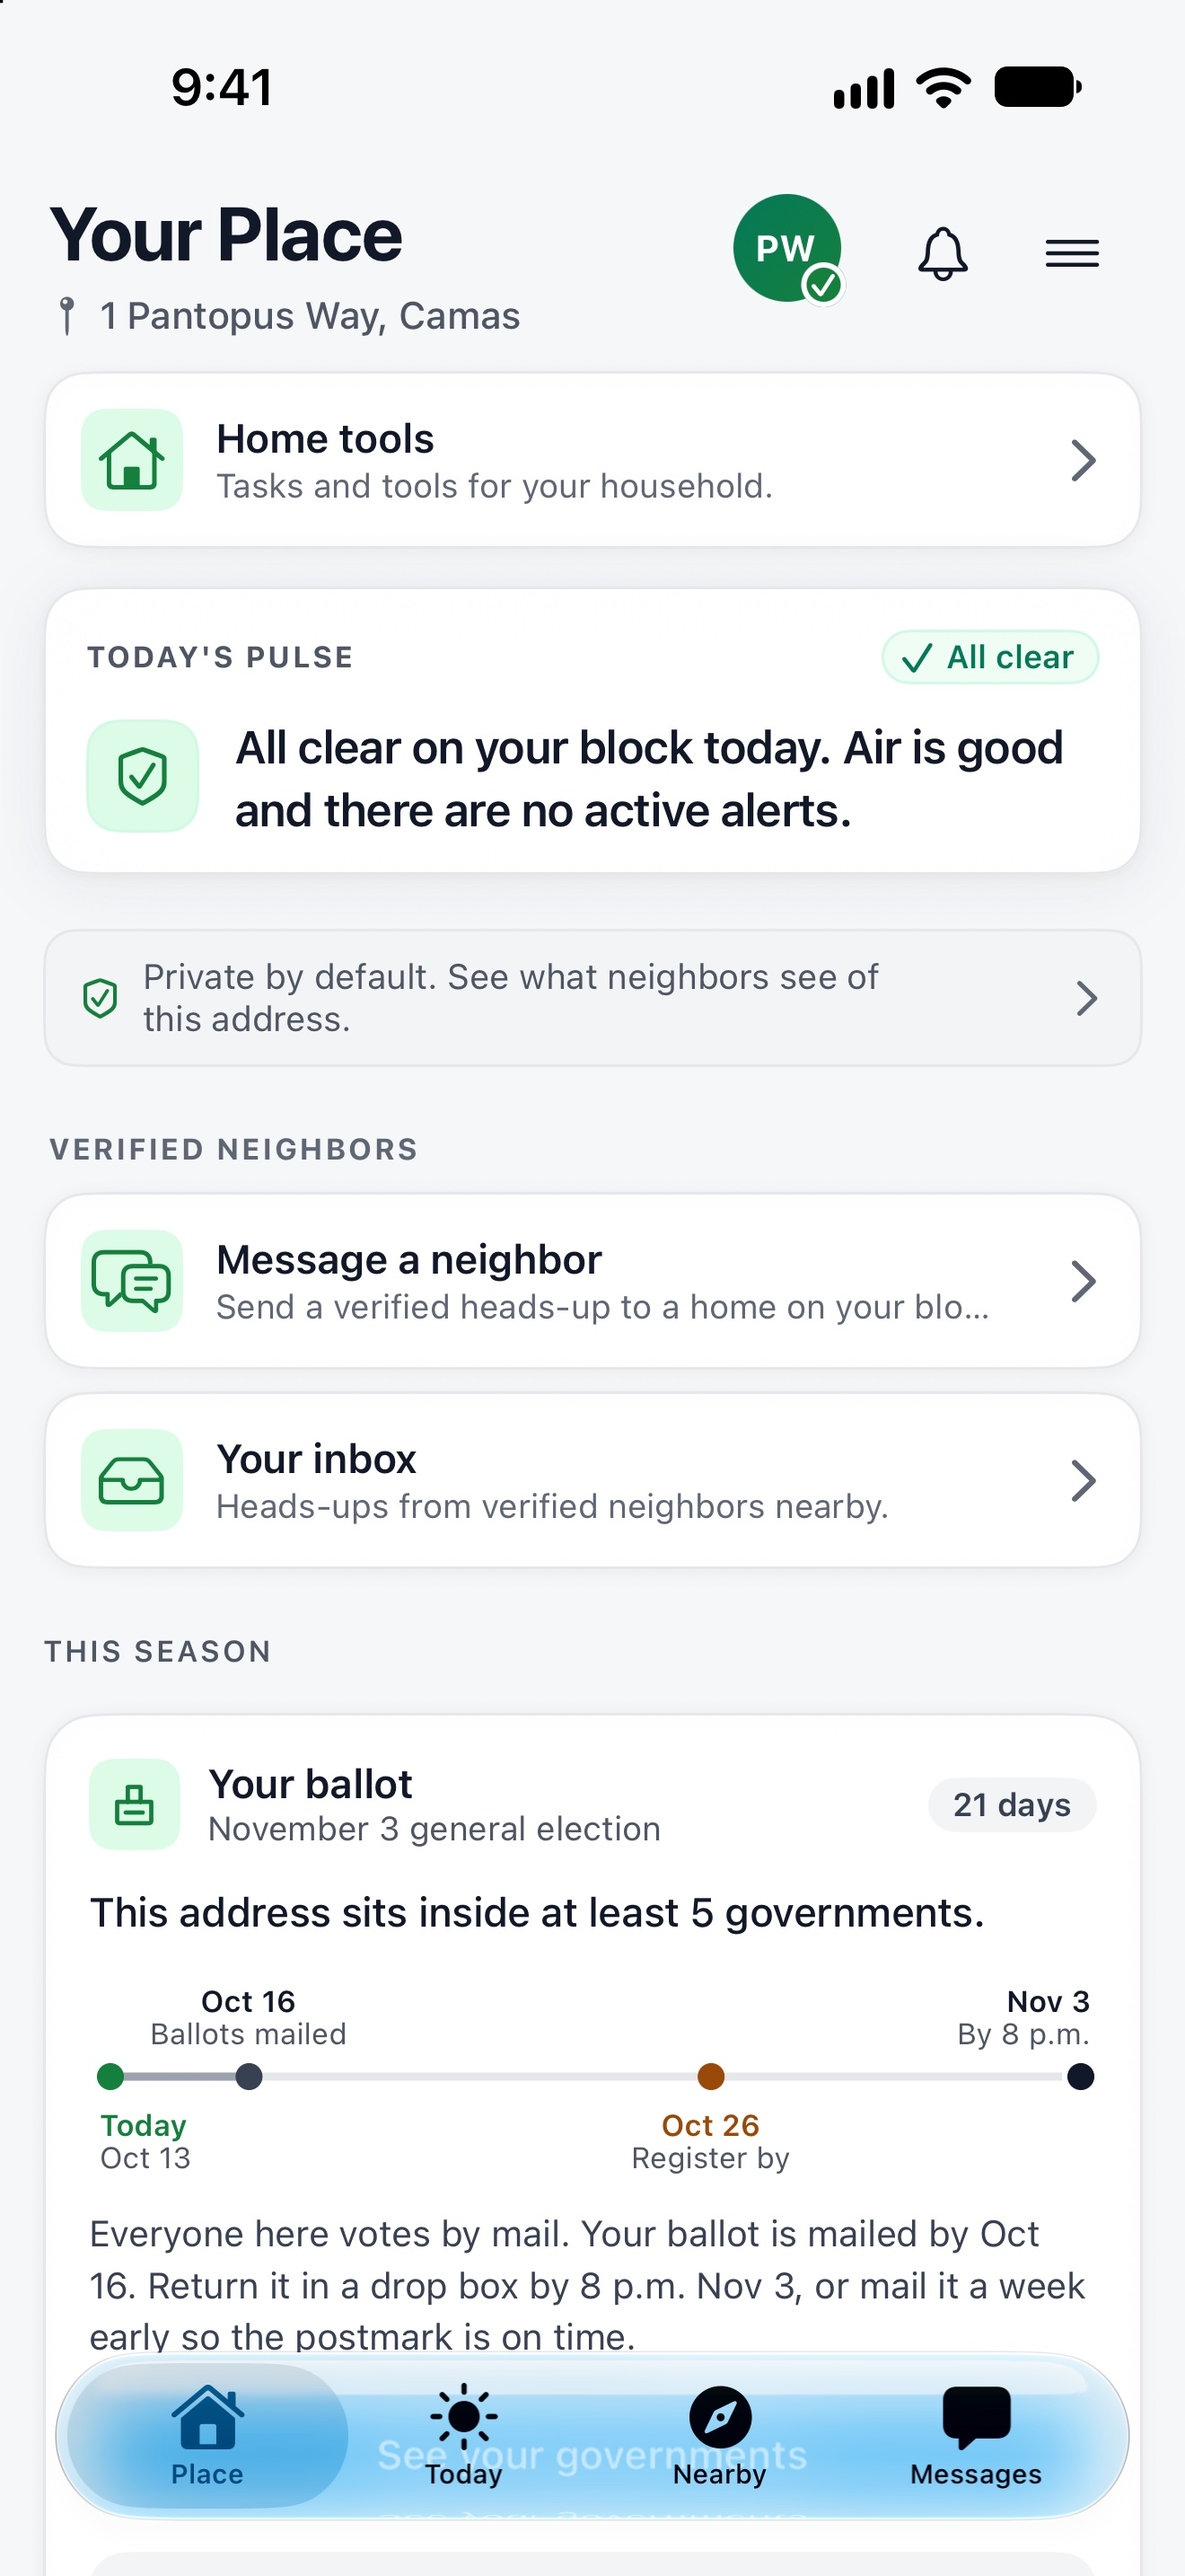
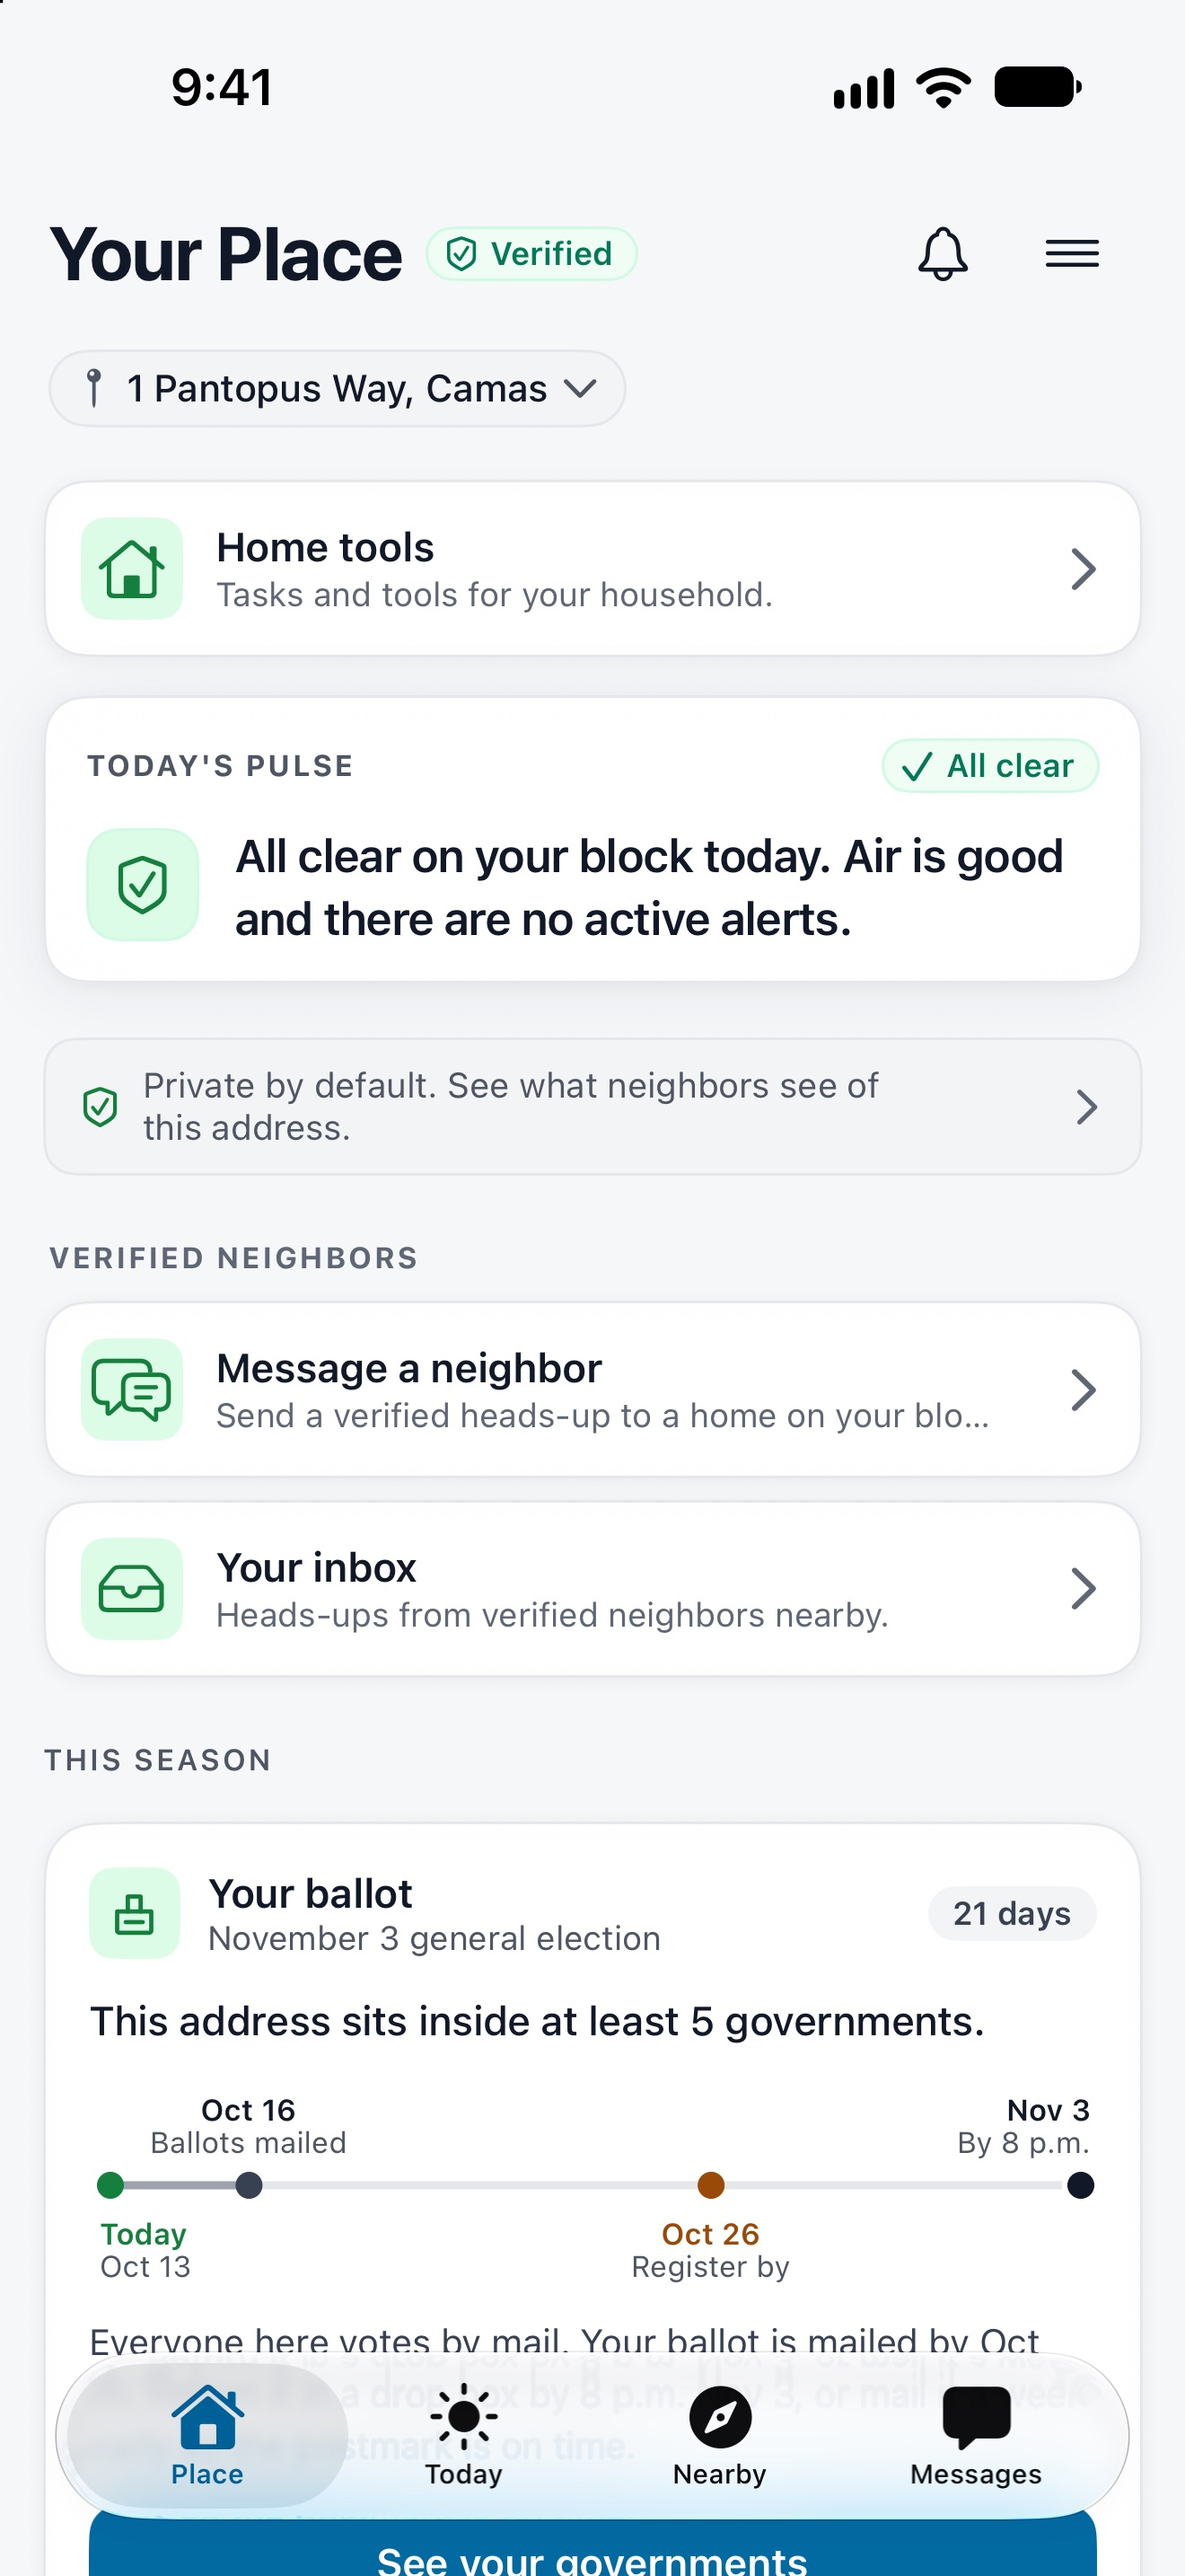
Store screenshot and NEXT_STEPS: approved Your Place retake; home picture and Place tab out of Parked
The founder approved the iPhone Your Place retake (the Place root in PR 2189
changed its header) and decided on October 14 that the stylized home picture
(PR 2202) and the Place tab (PR 2189) are not parked but available to everyone.

diff --git a/NEXT_STEPS.md b/NEXT_STEPS.md
@@ -44,7 +44,7 @@ Sessions you start for one job (Instant Screens, Nearby Plans, single fixes) wor
 **Made by the founder on October 3.**
 
 - [x] New builds are mobile only: iOS and Android. Web waits. Backend, database and seeder changes the apps need are in scope and must not break the current web. **Exception, October 6 (founder): Ballot is built on the web as well; see the Ballot section.**
-- [x] F1 to F12 for the pilot: build F1, F4 and the rest of F9's truthfulness fixes; build small versions of F2, F3 and F5; ship F3b's server gate with F3; leave F7, F8, F10 and F12's appeal windows for later; drop F6 and F11; park the stylized home picture and the address QR inbox.
+- [x] F1 to F12 for the pilot: build F1, F4 and the rest of F9's truthfulness fixes; build small versions of F2, F3 and F5; ship F3b's server gate with F3; leave F7, F8, F10 and F12's appeal windows for later; drop F6 and F11; park the stylized home picture and the address QR inbox. (Changed October 14: the home picture is built, see above.)
 
 **Made on October 3 under the founder's standing instruction to go with the recommended option. Change any of them here.**
 
@@ -90,6 +90,10 @@ Sessions you start for one job (Instant Screens, Nearby Plans, single fixes) wor
 - [x] Labels and permissions, adult-only posting and Visitors who may start Asks (one a day) as in the design. Paid moderation is approved in principle; the founder confirms real cover before public web exposure.
 - [x] No unit tests or coverage for Pulse: every feature, flow and edge case is verified end to end by launching the web, iOS and Android apps ([scenarios](docs/product/pulse-build/05-scenarios.md)).
 - [ ] The eleven new tables in the [contract](docs/product/pulse-build/02-contract.md#42-new-tables-awaiting-founder-approval): awaiting the founder's approval.
+
+**Made by the founder on October 14.**
+
+- [x] The stylized home picture and the Place tab are no longer parked and are for everyone now: the Today sky draws the household's own house from its county record (PR 2202), and the Place tab is the person's place, with the legacy Hub removed (PR 2189). Both merged October 13.
 
 **Still open. The brief builds the default until you decide.**
 
@@ -234,7 +238,7 @@ A checked subitem means the named implementation or local check is complete; a p
   - [ ] Recheck Android once its last two Instant Screens fixes land (PRs 2178 and 2182); everything else from the October 13 list is merged and passed the recheck above.
   - [ ] Open with owners, no session running: on iOS and Android the Place pulse shows a weather alert's full text and fills the first screen during alerts (L1); on iOS, My Homes shows placeholders when it is reopened while offline (Home owner).
   - [ ] Complete Android map acceptance. Household pins now use the stored coordinates (PR 2180), and Android keeps only public map copies and rechecks Home access on each visit (PR 2181); both merged October 13. The local Maps SDK key is still empty, so tiles, pin selection and camera gestures stay unverified until you supply an approved SDK key.
-  - [ ] Retake store screenshots showing Messages; the October 7 approved set shows Mail. The five iPhone shots were retaken and you approved them on October 13 (PR 2230); Your Place now shows the Ballot card, which L4 retakes after the November 3 election. The Place root (PR 2189) then changed the Your Place header, so L4 retakes that iPhone shot for your approval. Still to take: the Android set, after PR 2178 fixes the first-week count, for your approval. Physical-iPhone airplane-mode launch remains a founder check.
+  - [ ] Retake store screenshots showing Messages; the October 7 approved set shows Mail. The five iPhone shots were retaken and you approved them on October 13 (PR 2230); Your Place now shows the Ballot card, which L4 retakes after the November 3 election. The Place root (PR 2189) then changed the Your Place header; L4 retook that iPhone shot and you approved it on October 14. Still to take: the Android set, after PR 2178 fixes the first-week count, for your approval. Physical-iPhone airplane-mode launch remains a founder check.
   - [x] October 6: every reachable web page on the production build opened as a homeowner, a new user and a non-member (198 pages; three old /app addresses crashed and are fixed in PR 1655); every route opened as an app link on Android and, signed out, on iOS with no crashes; signed-in Lighthouse: performance 72–77, accessibility 93–100.
   - [x] October 6 evening, web on that day's master: the 198 pages again with no crash; accessibility median 100 with fewer failing checks than the morning (the rest went to L3); every click target reachable with the keyboard once PR 1707 made the Place cards focusable.
   - [x] October 6, iOS signed in as a homeowner: VoiceOver names every control on the four tabs, dark mode reads correctly, the tabs fit an iPhone SE, and with the server unreachable each tab says so, offers a retry and recovers when it's back. Two Place-tab issues went to L1: its section rows aren't announced as buttons, and re-tapping the Place tab icon shows the older hub screen (switching tabs brings Your Place back since PR 1678). Both fixed (PRs 1696 and 1697) and rechecked on the October 7 iOS Release build.
@@ -302,7 +306,7 @@ Phases 0 and 1 of the [Street Organizer launch plan](docs/product/street-organiz
 ## 6. Dropped, parked or shelved
 
 - Dropped: F6 (just-moved ticks on the account and the voter step) and F11 (the keeper).
-- Parked: the stylized home picture; the address QR inbox; the Place tab rebuilt around a "place file" and "Your places"; the one-page notification settings redesign.
+- Parked: the address QR inbox; the one-page notification settings redesign. (The stylized home picture and the Place tab left this list on October 14; see section 0.)
 - Parked: a feed of permits, land-use cases, sales and assessment changes near an address. It needs the per-city adapters listed under Not now; it can return as the Street Organizer's civic facts and as Pulse content.
 - Shelved until October 6, then revived by the founder for the November 3 general election: the election feature (see the Ballot section). The 2027 local-election work it was shelved for stays parked ([build guide](docs/ballot-build-guide-2026-09-23.md), [review](docs/ballot-product-review-2026-09-23.md) and the design canvas kept).
 - Creator network and Places: ten conversations first (five hobbyist photographers or hikers, five creators), then decide in late November.
